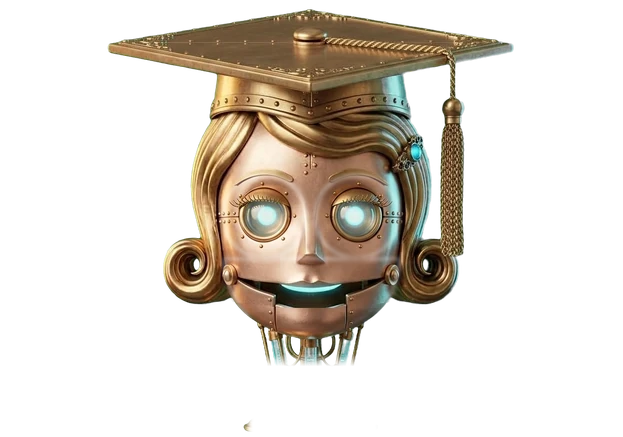
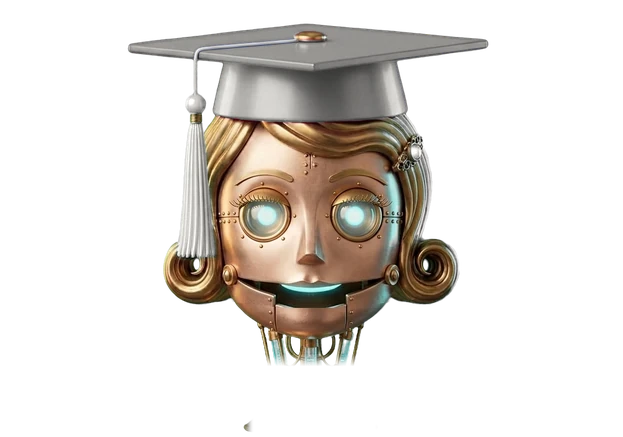
GA looks in two clean colours: trail cap, bike helmet and grad cap (#203)
Rendered with the two-prompt method (magenta for colour A, cyan for B), turned
white where the colours go and dyed in the Note's palette. A look with
flairBase wears its own two colours on a Note without a palette (site, link
cards, Studio Social).

Claude-Session: https://claude.ai/code/session_0195hiXiVZY5DpQ2CCYEr2vL

diff --git a/studio/assets/social.js b/studio/assets/social.js
@@ -103,7 +103,7 @@
   // As her share card (field/tools/gacard.py) and her Listen bar: the Note's backdrop with its colours over it, the
   // site's nameplate with the title, the glass player, and her at her desk in the Note's look, its flair tinted 45%
   // in the Note's two colours. Built once per size from the same parts the site stacks.
-  var NA = '/assets/narrator/', gaParts = null, gaCards = {}, gaK = .45, gaDye = '';   // gaK: how strongly her flair takes the colours (looks.json flairK)
+  var NA = '/assets/narrator/', gaParts = null, gaCards = {}, gaK = .45, gaDye = '', gaBase = null;   // gaK: how strongly her flair takes the colours (looks.json flairK)
   function pic(u) { return new Promise(function (ok) { var i = new Image(); i.onload = function () { ok(i); }; i.onerror = function () { ok(null); }; i.src = u; }); }
   function gaStyle() {   // her look and backdrop on this Note, as the site picks them: its own, else its categories'
     var kt = { ride: 'ride', hike: 'hike', forage: 'foraging', make: 'mini-cast' };
@@ -125,7 +125,7 @@
     return (gaParts = gaStyle().then(function (st) {
       var v = st.look && st.look.v ? '?r=' + st.look.v : '', stem = st.look ? NA + 'looks/' + st.look.file.replace(/\.[a-z]+$/, '') + '.flair-' : '';
       var fl = st.look ? (st.look.flair || '') : '';
-      gaK = st.look && st.look.flairK ? st.look.flairK : .45; gaDye = st.look ? (st.look.flairDye || '') : '';
+      gaK = st.look && st.look.flairK ? st.look.flairK : .45; gaDye = st.look ? (st.look.flairDye || '') : ''; gaBase = st.look && st.look.flairBase ? st.look.flairBase : null;
       return Promise.all([st.look ? pic(NA + 'looks/' + st.look.file + v) : pic(NA + 'head-base.webp'), pic(NA + 'head-iris.webp'), pic(NA + 'head-lens.png'), pic(NA + 'head-shine.webp'),
         pic(NA + 'head-jaw-sides.webp'), pic(NA + 'head-jaw.webp'), pic(NA + 'kit/rest-body.webp'), pic(NA + 'desk.jpg'),
         st.bd ? pic(NA + 'backdrops/' + st.bd.file + (st.bd.v ? '?r=' + st.bd.v : '')) : Promise.resolve(null),
@@ -139,7 +139,7 @@
   }
   function css(c, a) { return 'rgba(' + c.join(',') + ',' + (a == null ? 1 : a) + ')'; }
   function gaHead(P) {   // her head layer, 623 x 437: the look, its flair tinted, her eyes in their lenses, catchlights, chin
-    var W = 623, H = 437, c = canvas(W, H), g = c.getContext('2d'), p = pal();
+    var W = 623, H = 437, c = canvas(W, H), g = c.getContext('2d'), p = pal() || gaBase;   // a white-based look: its own colours without a palette
     if (P[0]) g.drawImage(P[0], 0, 0, W, H);
     if (p) [P[9], P[10]].forEach(function (mk, k) {
       if (!mk) return;

diff --git a/css/narrator.css b/css/narrator.css
@@ -123,12 +123,12 @@ section.listen.has-bd::before{z-index:1}
 /* THE NOTE'S PALETTE (data-palette on the bar: two accent colours from its hero, --ga1 and --ga2). Her flair: the parts
    of whatever look she wears that take it (narrator.js flair(): a mask per colour), tinted with a "color" blend at 45% (a tint over the original, not a repaint) so
    the brass, folds and shading show through; then the glass card, its seek bar and Play, and the backdrop's shade */
-.nb-flair{position:absolute;inset:0;display:block;mix-blend-mode:color;opacity:var(--fk,.45);background:var(--ga1,transparent);pointer-events:none;
+.nb-flair{position:absolute;inset:0;display:block;mix-blend-mode:color;opacity:var(--fk,.45);background:var(--ga1,var(--gd,transparent));pointer-events:none;
   -webkit-mask:var(--fm) 0 0/100% 100% no-repeat;mask:var(--fm) 0 0/100% 100% no-repeat}
-.nb-flair[data-k="b"]{background:var(--ga2,transparent)}
+.nb-flair[data-k="b"]{background:var(--ga2,var(--gd,transparent))}
 .nb-flair.dye{mix-blend-mode:multiply}   /* white or pale parts (looks.json flairDye): dyed the colour itself, so white trim turns the colour, and white stays white */
 .nb-flair[hidden]{display:none}
-section.listen:not(.has-pal) .nb-flair{display:none}
+section.listen:not(.has-pal) .nb-flair:not(.based){display:none}   /* a white-based look (flairBase) wears its own colours */
 /* the shine: now and then a band of light sweeps across the scene behind her (the backdrop) and on over the glass player;
    not over her, where it showed the edges of the video layer */
 @keyframes nb-glint{0%{background-position:100% 0}22%,100%{background-position:0 0}}

diff --git a/index.html b/index.html
@@ -24,7 +24,7 @@
 <link rel="stylesheet" href="css/play-inline.css?v=1794700000">
 <link rel="stylesheet" href="css/logo.css?v=11">
 <link rel="stylesheet" href="css/lake.css?v=1">
-<link rel="stylesheet" href="css/narrator.css?v=31">
+<link rel="stylesheet" href="css/narrator.css?v=32">
 <script>/* The lake closed by the link (nlake) or last time (js/lake.js): start with the clean top, no flash of the scene. */try{var w=decodeURIComponent(location.search).toLowerCase(),n=/(^|[?+&,;\s])nlake([+&,;\s=]|$)/.test(w),y=/(^|[?+&,;\s])ylake([+&,;\s=]|$)/.test(w);if(n||(!y&&localStorage.getItem("cg-lake")==="0"))document.documentElement.classList.add("lake-off")}catch(e){}</script>
 <link rel="stylesheet" href="css/footer.css?v=1793360000">
 <script>/* Night links (?night, ?nightmode, ?darkmode) open with the page already dark: no white flash, no fade. */
@@ -256,7 +256,7 @@ document.documentElement.classList.add('night-page');})();</script>
 <script src="js/audio-rules.js?v=1" defer></script>
 <script src="js/play-inline.js?v=1794600000" defer></script>
 <script src="js/lake.js?v=3" defer></script>
-<script src="js/narrator.js?v=38" defer></script>
+<script src="js/narrator.js?v=39" defer></script>
 <!-- About: the name in the header opens the résumé (about/) as a modal. -->
 <script src="js/about.js?v=1793460000" defer></script>
 <!-- Footer: chipmunks, trail log (waits until the footer is near the screen). -->

diff --git a/js/narrator.js b/js/narrator.js
@@ -70,7 +70,10 @@
       var k = f.getAttribute('data-k'), on = !!stem && (l.flair || '').indexOf(k) >= 0;
       f.style.setProperty('--fm', on ? 'url(' + stem + k + '.png' + V + (l.v ? '.' + l.v : '') + ')' : 'none'); f.hidden = !on;
       f.style.setProperty('--fk', l && l.flairK ? l.flairK : .45);
-      f.classList.toggle('dye', !!l && (l.flairDye || '').indexOf(k) >= 0);   // white parts are dyed, not tinted   // how strongly: a gentle 45% on brass, more on fabric and gems (looks.json flairK)
+      f.classList.toggle('dye', !!l && (l.flairDye || '').indexOf(k) >= 0);
+      // a look rendered white where its colours go (looks.json flairBase): its own two colours when the Note has no palette
+      var d = on && l.flairBase ? l.flairBase['ab'.indexOf(k)] : '';
+      if (d) f.style.setProperty('--gd', d); else f.style.removeProperty('--gd'); f.classList.toggle('based', !!d);   // white parts are dyed, not tinted   // how strongly: a gentle 45% on brass, more on fabric and gems (looks.json flairK)
     });
   }
   function put(nb, l) {

diff --git a/studio/index.php b/studio/index.php
@@ -158,7 +158,7 @@ $alt = 'The Studio by ' . $tod . ': a brass STUDIO panel with its day/night dial
 <script src="assets/track.js?v=<?= STUDIO_VERSION ?>-3"></script>
 <script src="assets/hdr.js?v=<?= STUDIO_VERSION ?>-2"></script>
 <script src="../js/route-view.js?v=<?= STUDIO_VERSION ?>-4"></script>
-<script src="assets/social.js?v=<?= STUDIO_VERSION ?>-5"></script>
+<script src="assets/social.js?v=<?= STUDIO_VERSION ?>-6"></script>
 <script src="assets/look.js?v=<?= STUDIO_VERSION ?>-7"></script>
 <script src="assets/studio.js?v=<?= STUDIO_VERSION ?>-55"></script>
 <?php endif; ?>

diff --git a/field/tools/gacard.py b/field/tools/gacard.py
@@ -60,6 +60,7 @@ def style(e):
 def head(look, pal):
     """her head layer (623 x 437): the look (its flair tinted), her eyes in their lenses, the catchlights, the chin"""
     out = rgba('looks/' + look['file']) if look else rgba('head-base.webp')
+    pal = pal or (look or {}).get('flairBase')   # a look rendered white where its colours go: its own two when the Note has none
     if look and pal:
         stem = look['file'].rsplit('.', 1)[0]
         for k, c in zip('ab', pal):
